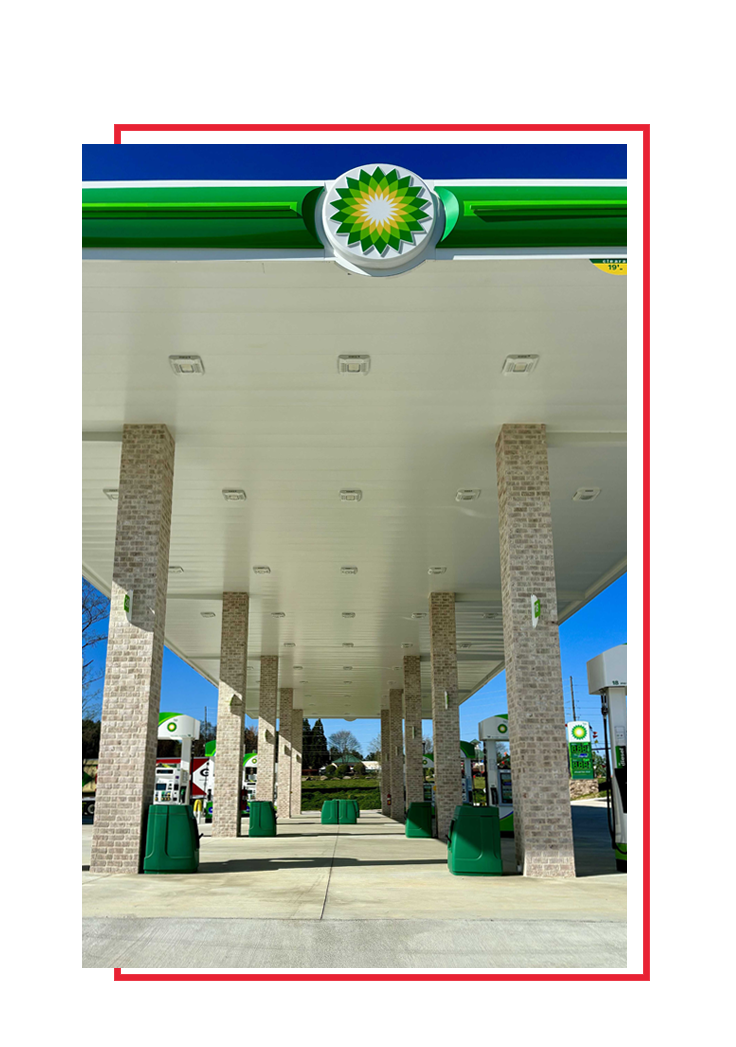
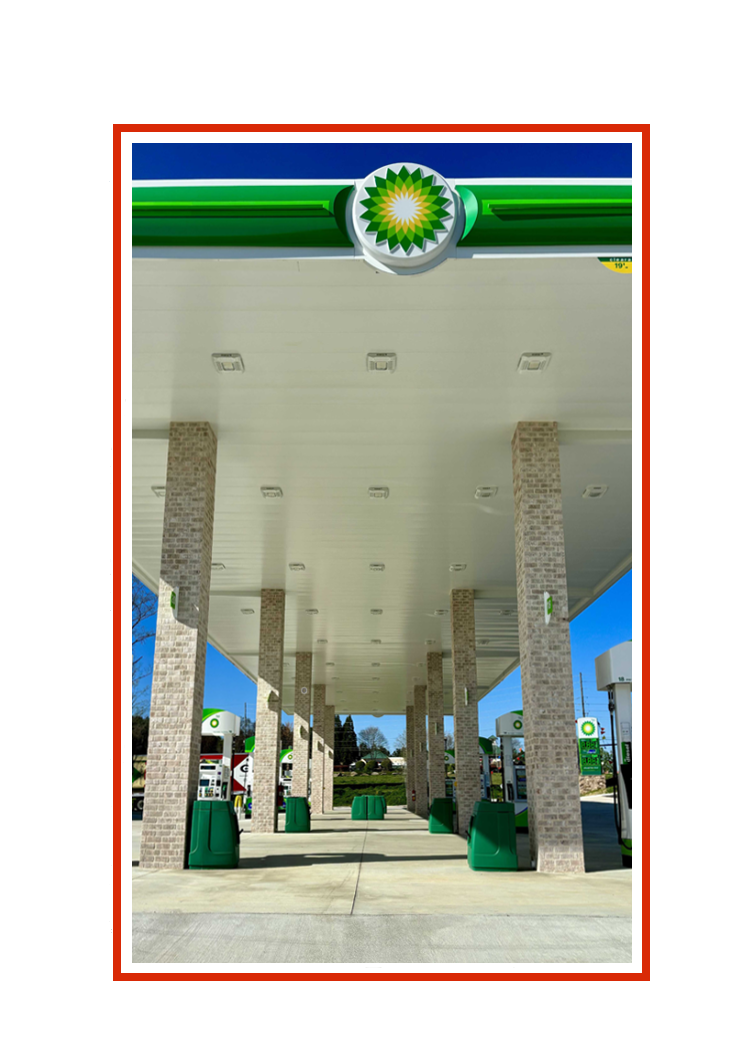
home page, about us section image update

diff --git a/src/app/home/sections/about.tsx b/src/app/home/sections/about.tsx
@@ -15,7 +15,7 @@ const About: React.FC = () => {
       {/* Left Image Section */}
       <div className='w-full hidden scrn-750:block scrn-750:w-2/5 scrn-1200:w-1/2'>
         <Image
-          src="/products/stationUpdated.png"
+          src="/products/stationUpdated_new.png"
           alt="Hero"
           width={3264}
           height={4601}
